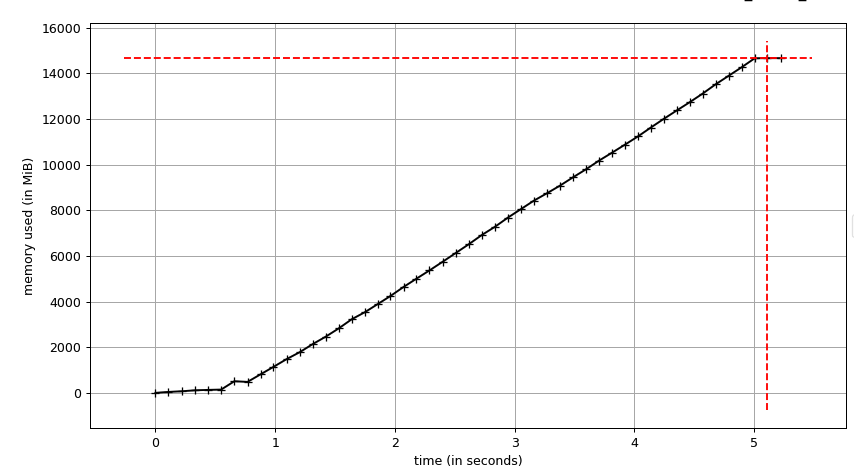
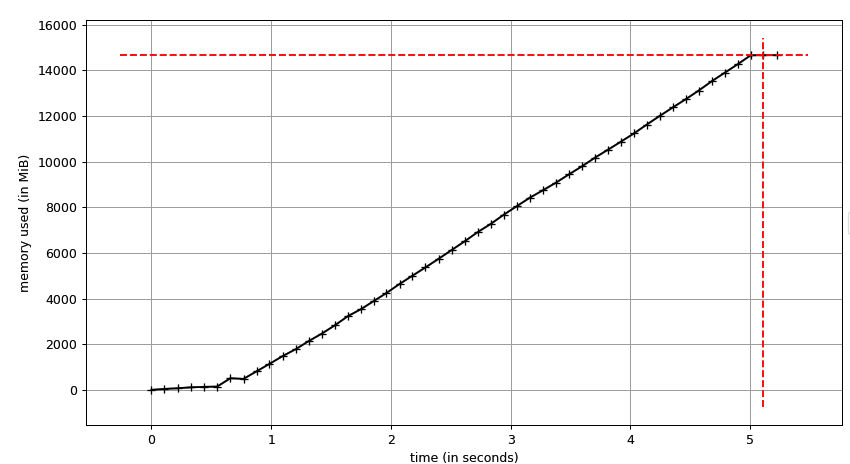
Doc update

diff --git a/docs/performance.md b/docs/performance.md
@@ -8,6 +8,7 @@
 ### Detailed results shortcuts 👨🔬
 - [Binary operations](#binary-operations)
 - [Parallel execution and scalability](#parallel-execution-and-scalability)
+- [Memory characteristics](#memory-characteristics)
 - [DataFrame formats performance](#dataframes-comparison)
 
 ### Test datasets 🗃
@@ -1171,24 +1172,24 @@ the `parallel` dataset was used (see [Test datasets](#test-datasets))
 
 ##### 7-3
 
-| Library                 |  Min (s) |  Max (s) | Mean (s) | Speedup    |
-|-------------------------|----------|----------|----------|------------|
-| polars_bio              | 0.283038 | 0.292933 | 0.288120 | ***1.00x** |
-| polars_bio_pandas_lf    | 0.496220 | 0.510444 | 0.502504 | 0.57x      |
-| polars_bio_pandas_pd    | 0.495243 | 0.498179 | 0.497064 | 0.58x      |
-| polars_bio_polars_eager | 0.446789 | 0.455552 | 0.450521 | **0.64x**  |
-| polars_bio_polars_lazy  | 0.450512 | 0.456530 | 0.453931 | 0.63x      |
+| Library                 |  Min (s) |  Max (s) | Mean (s) | Speedup   |
+|-------------------------|----------|----------|----------|-----------|
+| polars_bio              | 0.283038 | 0.292933 | 0.288120 | **1.00x** |
+| polars_bio_pandas_lf    | 0.496220 | 0.510444 | 0.502504 | 0.57x     |
+| polars_bio_pandas_pd    | 0.495243 | 0.498179 | 0.497064 | 0.58x     |
+| polars_bio_polars_eager | 0.446789 | 0.455552 | 0.450521 | **0.64x** |
+| polars_bio_polars_lazy  | 0.450512 | 0.456530 | 0.453931 | 0.63x     |
 
 #### L-size
 ##### 0-8
 
-| Library                 |   Min (s) |   Max (s) |  Mean (s) | Speedup    |
-|-------------------------|-----------|-----------|-----------|------------|
-| polars_bio              |  4.519114 |  4.539367 |  4.532138 | ***1.00x** |
-| polars_bio_pandas_lf    | 12.710922 | 12.805014 | 12.751166 | 0.36x      |
-| polars_bio_pandas_pd    | 12.699757 | 12.820158 | 12.759016 | 0.36x      |
-| polars_bio_polars_eager | 12.455788 | 12.555952 | 12.501217 | 0.36x      |
-| polars_bio_polars_lazy  | 12.536595 | 12.579006 | 12.561026 | 0.36x      |
+| Library                 |   Min (s) |   Max (s) |  Mean (s) | Speedup   |
+|-------------------------|-----------|-----------|-----------|-----------|
+| polars_bio              |  4.519114 |  4.539367 |  4.532138 | **1.00x** |
+| polars_bio_pandas_lf    | 12.710922 | 12.805014 | 12.751166 | 0.36x     |
+| polars_bio_pandas_pd    | 12.699757 | 12.820158 | 12.759016 | 0.36x     |
+| polars_bio_polars_eager | 12.455788 | 12.555952 | 12.501217 | 0.36x     |
+| polars_bio_polars_lazy  | 12.536595 | 12.579006 | 12.561026 | 0.36x     |
 
 ##### 4-8
 
@@ -1239,7 +1240,35 @@ the `parallel` dataset was used (see [Test datasets](#test-datasets))
 | polars_bio_polars_lazy-8  | 2.406907 | 2.418571 | 2.411573 | **1.20x** |
 
 
+### Memory characteristics
+How to run the benchmarks with [memory-profiler](https://github.com/pythonprofilers/memory_profiler):
+```bash
+(polars-bio-py3.12) ➜  polars-bio git:(master) ✗ pip list | grep memory
+memory-profiler            0.61.0
 
+mprof run --include-children benchmark/src/memory/mem_xxx.py
+mprof plot mprofile_xxx.dat
+```
+#### Count operation
+Library      | Peak Memory (MB) | Factor   |
+-------------|------------------|----------|
+polars-bio   | **14,650**       | **1.0x** |
+bioframe     | 35,720           | 2.43x    |
+pyranges0    | 30,140           | 2.06x    |
+pyranges1    | 35,940           | 2.45x    |
+
+#### Apple Silicon (macOS) 🍎
+
+
+##### 7-8
+###### polars-bio
+![polars-bio](assets/memory/polars-bio.png)
+###### bioframe
+![bioframe](assets/memory/bioframe.png)
+###### pyranges0
+![pyranges](assets/memory/pyranges0.png)
+###### pyranges1
+![pyranges](assets/memory/pyranges1.png)
 ## How to run the benchmarks
 ```bash
 poetry env use python3.12

diff --git a/docs/cookbook.md b/docs/cookbook.md
@@ -1,2 +1,2 @@
-## How to set DataFusion configuration options
+:construction:
 
